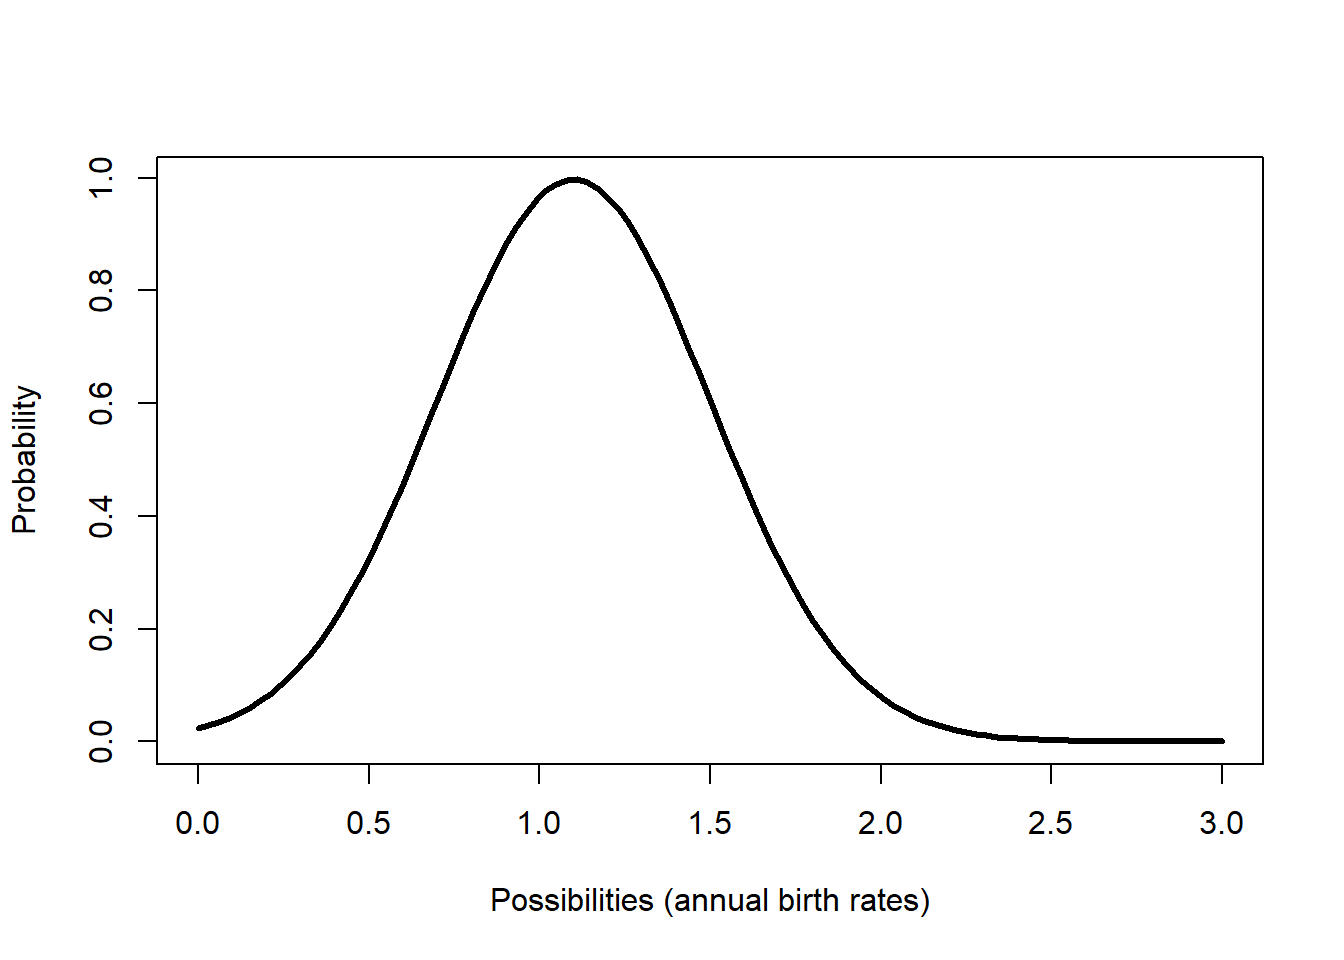
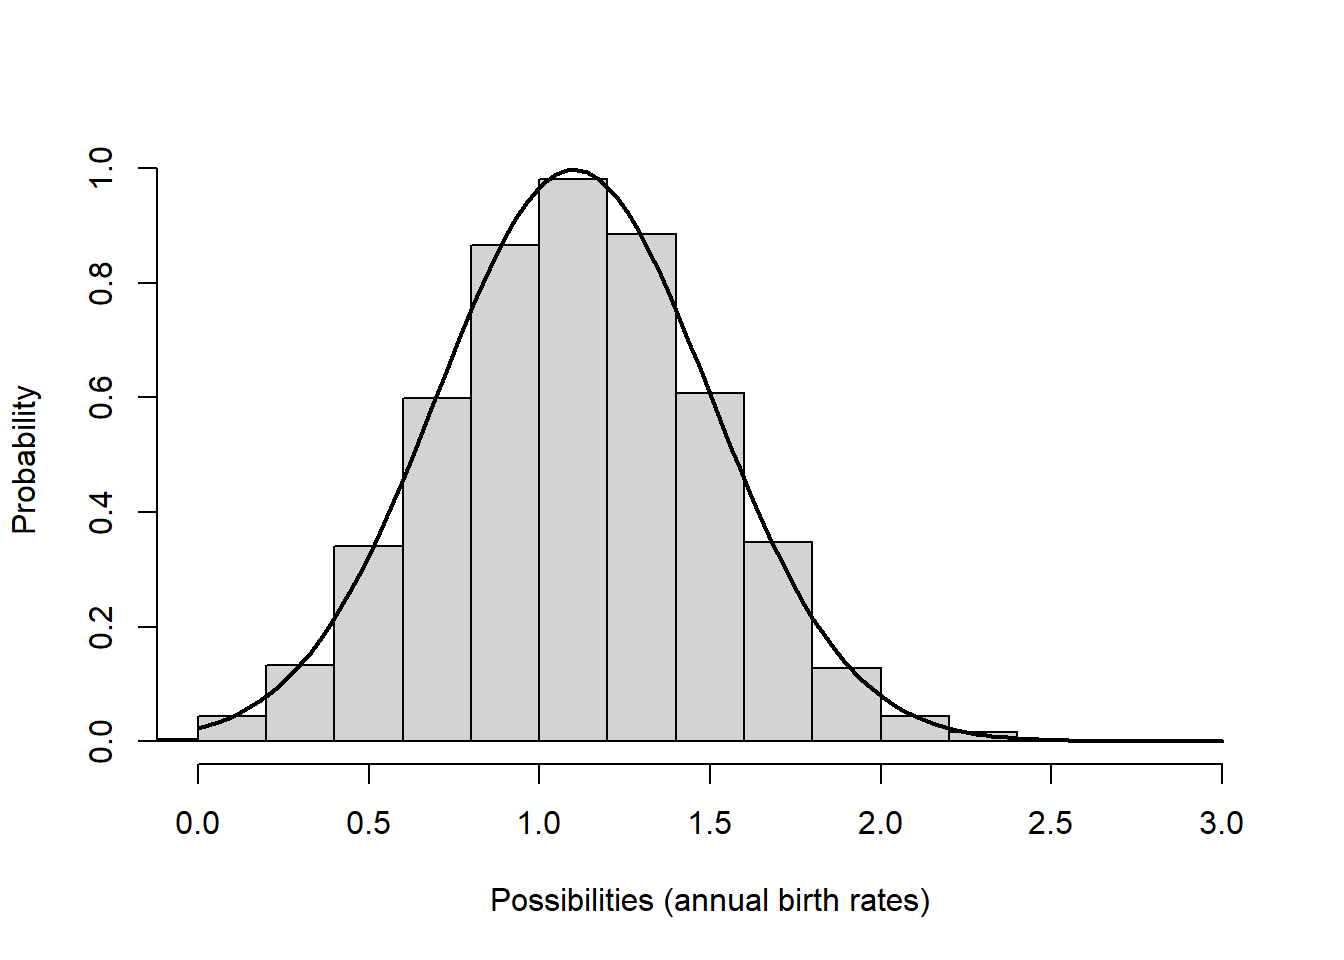
minor

diff --git a/LAB5.html b/LAB5.html
@@ -483,15 +483,19 @@ the uncertain parameter value.</p>
 <p><span class="math inline">\(b = 1.5 \pm 0.4\)</span></p>
 <p>To “embrace” this type of uncertainty, we use <strong>uncertainty
 analysis</strong>. In its simplest form, we run the model for the lower
-and upper possible values (lower and upper bounds) and see what happens
-to our study system in each case.</p>
-<p>For example, the population might decline by 50% under the worst case
-scenario and double under the best case scenario. The truth is uncertain
+and upper possible values (lower and upper bounds, representing
+“worst-case” and “best-case” scenarios) and see what happens to our
+study system in each case.</p>
+<p>For example, the population might decline by 50% under the worst-case
+scenario and double under the best-case scenario. The truth is uncertain
 of course, but it is likely to fall somewhere between these two
 extremes!</p>
-<p>NOTE: if you collect more data about your study system (gain more
+<p>If you collect more data about your study system (gain more
 knowledge), you can reduce the uncertainty about key parameter values,
 and thereby improve the accuracy of your predictions!</p>
+<p>NOTE: in this lab we will use the “worst-case and best-case” method
+for modeling insufficient knowledge. We will also explore another
+relatively commonly used method that uses a random number generator!</p>
 </div>
 <div id="inherent-unpredictability-of-population-outcomes"
 class="section level2">
@@ -505,6 +509,10 @@ female offspring each year, and (2) <strong>population-level
 randomness</strong>: the inherent randomness of <em>environmental
 conditions</em> each year (will environmental conditions be favorable or
 unfavorable to population growth?).</p>
+<p>In both cases, we can use <strong>random number generators</strong>
+to model the inherent unpredictability in our study systems.</p>
+<p>NOTE: the word <strong>stochasticity</strong> is just a fancy word
+for “randomness”!</p>
 <div id="individual-level-randomness-demographic-stochasticity"
 class="section level3">
 <h3>Individual-level randomness (demographic stochasticity)</h3>
@@ -519,13 +527,14 @@ probability of a given offspring being female. But when it comes to
 projecting exactly who lives and dies, who gives birth and who doesn’t,
 how many females are born, we <em>just can’t know for sure</em>.</p>
 <p>In population ecology this type of uncertainty is called
-<strong>demographic stochasticity</strong>.</p>
+<strong>demographic stochasticity</strong>, referring to the inherent
+randomness (stochasticity) of demographic processes like births and
+deaths.</p>
 <p>We “embrace” this form of uncertainty by making the total number of
 births and deaths (the flows into and out of our stock[s])
-<strong>stochastic</strong>.</p>
-<p>That is, we use a <em>random-number generator</em> in place of a
-fixed number to represent the total births [Flow In] and total deaths
-[Flow Out].</p>
+<strong>stochastic</strong> (random). That is, we use a
+<em>random-number generator</em> in place of a fixed number to represent
+the total births [Flow In] and total deaths [Flow Out].</p>
 <div id="demographic-stochasticity-in-births" class="section level4">
 <h4>Demographic stochasticity in births</h4>
 <p>For the total annual number of births in a population (the Births
@@ -545,16 +554,17 @@ birth rate is exactly 0.8. Here is the <em>distribution</em> of Births
 hist(rpois(10000,(100*0.8)),main=&quot;&quot;,freq = F,ylab=&quot;Probability&quot;,xlab=&quot;Possibilities (Total Births)&quot;)</code></pre>
 <p><img src="LAB5_files/figure-html/unnamed-chunk-2-1.png" width="672" /></p>
 </div>
-<div id="demographic-stochasticity-in-deaths" class="section level4">
-<h4>Demographic stochasticity in deaths</h4>
-<p>The total number of deaths in a population each year (the Deaths
-flow(s) in InsightMaker) is usually modeled using a <strong>Binomial
-distribution</strong>. The Binomial random number generator only
-produces whole numbers (which we like- again, no fractional
-individuals!) and can only produce numbers that are greater than or
-equal to 0 and less than or equal to the total population size. These
-properties make it good for estimating total number of annual mortality
-or survival events!</p>
+<div id="demographic-stochasticity-in-total-mortalities-or-survivors"
+class="section level4">
+<h4>Demographic stochasticity in total mortalities or survivors</h4>
+<p>The total number of deaths or survivors in a population each year
+(the Deaths flows and Transition flows in InsightMaker) are best modeled
+using a <strong>Binomial distribution</strong>.</p>
+<p>The Binomial random number generator only produces whole numbers
+(which we like- no fractional individuals!) and can only produce numbers
+that are greater than or equal to 0 and less than or equal to the total
+population size. These properties make it useful for estimating the
+total mortality or survival events each year!</p>
 <p><span class="math inline">\(Deaths \sim Binomial(size=N_t,prob=d)
 \qquad \text{(Eq. 2)}\)</span></p>
 <p>Let’s imagine population size is 100 and per-capita death rate is
@@ -572,9 +582,9 @@ class="section level3">
 <p>Finally, we usually can’t predict whether next year or the year after
 will be a good one or a bad one- that is, whether the intrinsic rate of
 growth <em>r</em> or the <strong>population vital rates like b and
-d</strong> will be favorable or unfavorable (or average!) from one year
-to the next (whether a <em>population</em> will “get lucky”, so to
-speak).</p>
+d</strong> (or any element within a transition matrix!) will be
+favorable or unfavorable to growth from one year to the next (whether a
+<em>population</em> will “get lucky”, so to speak).</p>
 <p>In population ecology this is called <strong>environmental
 stochasticity</strong>.</p>
 <p>The term <strong>catastrophe</strong> is reserved for stochastic
@@ -585,14 +595,14 @@ growth!</p>
 <p>To “embrace” environmental stochasticity, <em>we make the per-capita
 vital rates (e.g., the “r” or “b” or “d” terms– or the per-capita
 transition rates in a transition matrix)
-<strong>stochastic</strong></em>.</p>
-<p>That is, we use a <em>random-number generator</em> in place of a
-fixed number to represent the per-capita vital rates, often represented
-as [Variables] in our InsightMaker models.</p>
+<strong>stochastic</strong></em>. That is, we use a <em>random-number
+generator</em> in place of a fixed number to represent the per-capita
+vital rates, often represented as [Variables] in our InsightMaker
+models.</p>
 <p>For this type of variability, we often use a <strong>Normal
-distribution</strong> or a <strong>uniform distribution</strong>. These
-random number generators are not (and should not be) constrained to be
-whole integers.</p>
+distribution</strong> (or sometimes a <strong>uniform
+distribution</strong>). Per-capita population vital rates are not (and
+should not be) constrained to be whole integers.</p>
 <p>For example, let’s imagine that annual per-capita birth rates (<span
 class="math inline">\(b\)</span>) are generally around 1.25 but can vary
 between 0.8 and 1.7 depending on how favorable the weather is each year.
@@ -605,9 +615,8 @@ curve(dnorm(x,1.25,0.15),0,3,lwd=3,add=T)</code></pre>
 <p><img src="LAB5_files/figure-html/unnamed-chunk-4-1.png" width="672" /></p>
 <p>Or what if our mean per-capita birth rate is 1.1, with a standard
 deviation of 0.4:</p>
-<pre class="r"><code># hist(rnorm(10000,mean=1.1,sd=0.4),main=&quot;&quot;,xlab=&quot;Possibilities (annual birth rates)&quot;,freq = F,ylab=&quot;Probability&quot;)
-
-curve(dnorm(x,1.1,0.4),0,3,xlab=&quot;Possibilities (annual birth rates)&quot;,ylab=&quot;Probability&quot;,lwd=3)</code></pre>
+<pre class="r"><code>hist(rnorm(10000,mean=1.1,sd=0.4),main=&quot;&quot;,freq=F,xlab=&quot;Possibilities (annual birth rates)&quot;,ylab=&quot;Probability&quot;,xlim=c(0,3))
+curve(dnorm(x,1.1,0.4),0,3,add=T,lwd=2)</code></pre>
 <p><img src="LAB5_files/figure-html/unnamed-chunk-5-1.png" width="672" /></p>
 <p>Okay now let’s get to the actual lab activity!</p>
 </div>
@@ -657,6 +666,10 @@ class="math inline">\(b\)</span> like this:</p>
 <p>and the other (Method #2) is to define the birth rate <span
 class="math inline">\(b\)</span> like this:</p>
 <pre><code>Fix(Rand(0.15, 0.25))</code></pre>
+<p>NOTE: you can use the “random number generators” menu in the equation
+editor to have InsightMaker give you the proper syntax. In general, try
+to avoid relying on typing commands directly in InsightMaker. Also, the
+“Fix” function can be found in the “Historical Functions” menu.</p>
 <p>Try implementing both methods (methods #1 and #2, above). For each of
 these two methods, use the “Sensitivity Testing” tool (in the “Tools”
 menu in InsightMaker, upper right-hand corner) to run the model 50 times
@@ -679,8 +692,9 @@ largest range of possible values)?</p>
 <p>1f. Methods #1 and #2 differ in only one way: the use of the “Fix”
 function in InsightMaker (the “Fix” function is used in Method #2 but
 not Method #1). What does the “Fix” function do in InsightMaker? (NOTE:
-it’s not cheating if you look up what InsightMaker’s “Fix” function does
-on the internet!).</p>
+it’s not cheating if you look up what InsightMaker’s “Fix” function
+does, either using the equation editor in InsightMaker or on the
+internet!).</p>
 <p>Let’s think through the problem one more time- we are uncertain about
 the <em>true</em> value of the per-capita birth rate, <span
 class="math inline">\(b\)</span>, for a rare species. The actual birth
